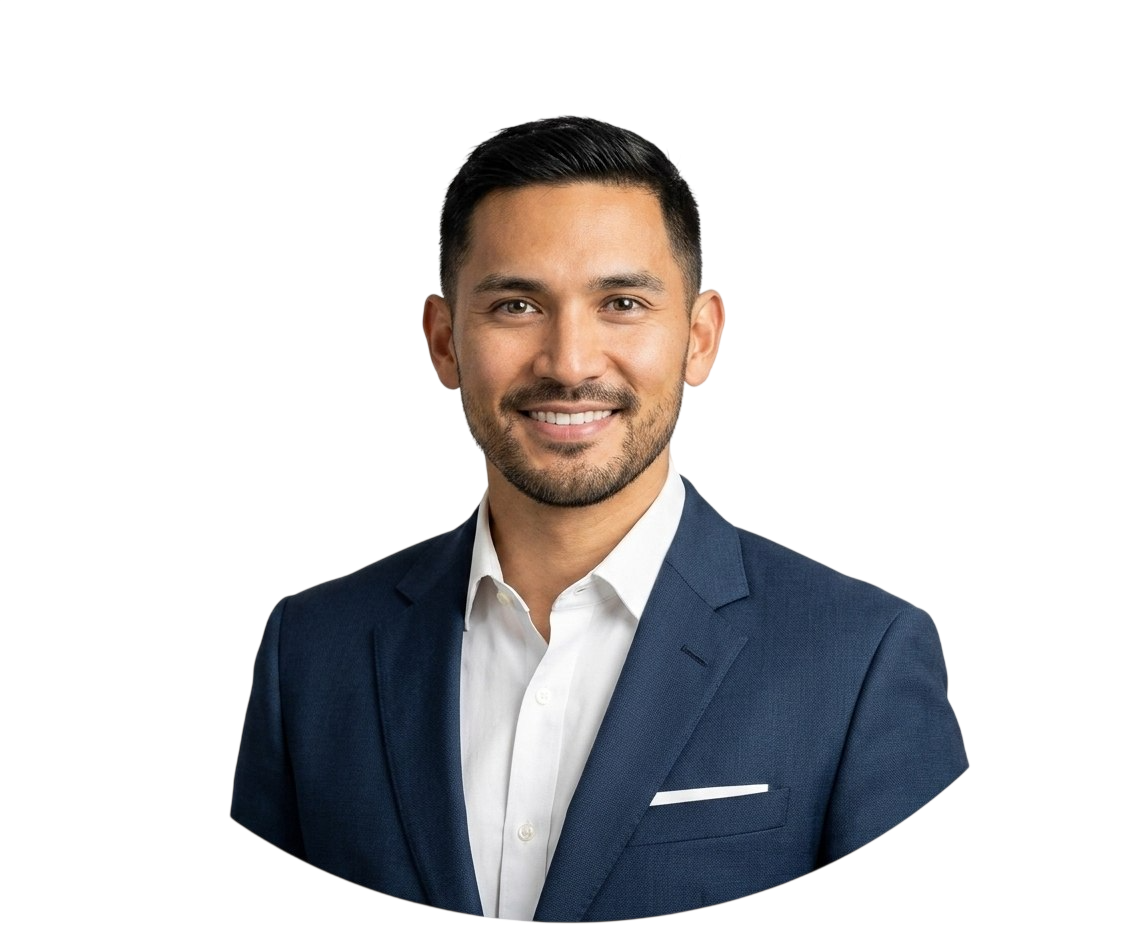
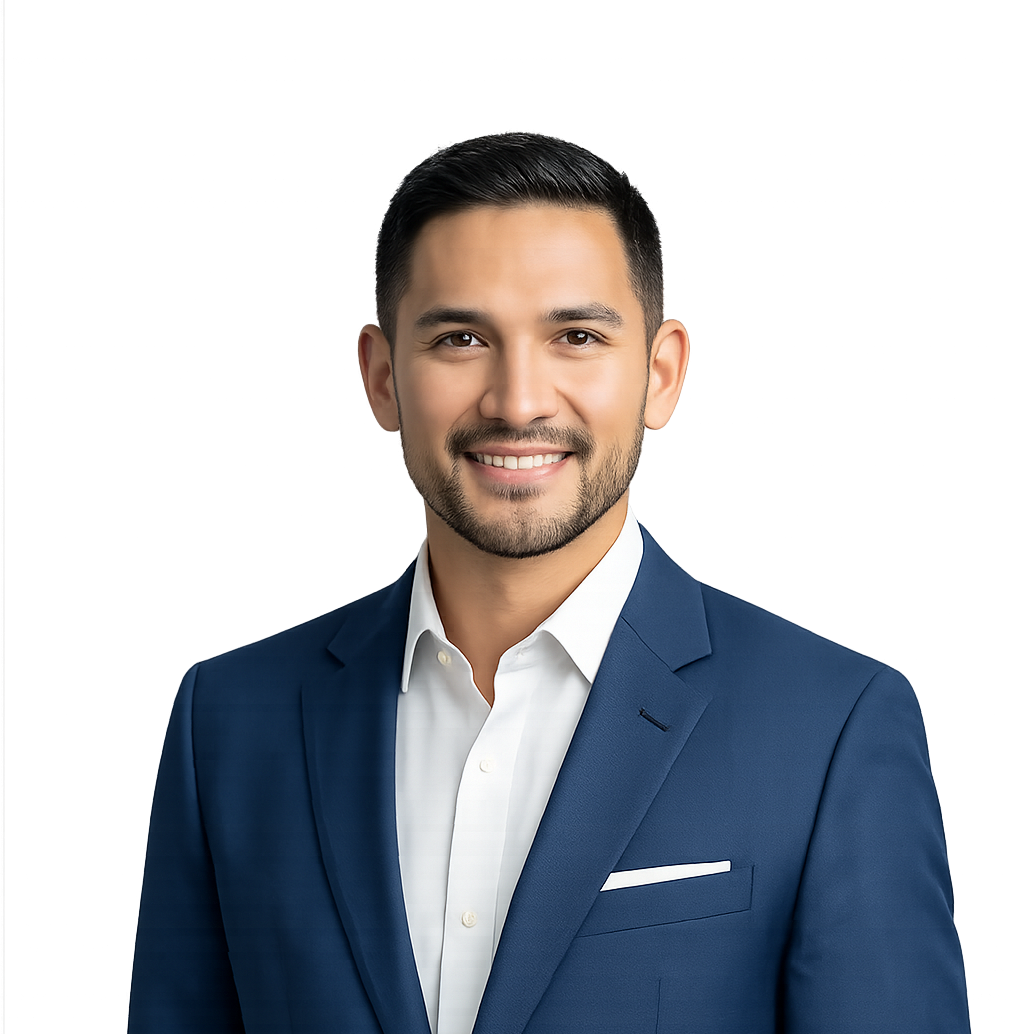
refactor(account): extract profile widgets and build complete ProfileCard UI

Changed region(s): [[0.1228, 0.1229, 0.9822, 1.0], [0.3069, 0.6758, 0.3376, 0.768]]

diff --git a/lib/features/account/presentation/views/widgets/profile_card.dart b/lib/features/account/presentation/views/widgets/profile_card.dart
@@ -1,0 +1,88 @@
+import 'package:flutter/material.dart';
+import 'package:flutter_svg/svg.dart';
+import 'package:flutter_task05_skills_academy_beg/core/theme/app_colors.dart';
+import 'package:flutter_task05_skills_academy_beg/core/utils/assets.dart';
+import 'package:flutter_task05_skills_academy_beg/features/account/presentation/views/widgets/ProfileBadge.dart';
+import 'package:flutter_task05_skills_academy_beg/features/account/presentation/views/widgets/profile_avatar.dart';
+
+class ProfileCard extends StatelessWidget {
+  const ProfileCard({super.key});
+
+  @override
+  Widget build(BuildContext context) {
+    return Container(
+      padding: const EdgeInsets.all(16),
+      decoration: BoxDecoration(
+        color: Colors.white,
+        borderRadius: BorderRadius.circular(16),
+        boxShadow: [
+          BoxShadow(
+            color: Colors.black.withOpacity(0.05),
+            blurRadius: 8,
+            offset: const Offset(0, 4),
+          ),
+        ],
+      ),
+      child: Column(
+        mainAxisSize: MainAxisSize.min,
+        children: [
+          // Profile Image
+          const ProfileAvatar(),
+          const SizedBox(height: 12),
+
+          //  User Name and Email
+          const Text(
+            'Julian Sterling',
+            style: TextStyle(fontSize: 20, fontWeight: FontWeight.w600),
+          ),
+          const SizedBox(height: 4),
+
+          const Text(
+            '[email redacted]',
+            style: TextStyle(color: Colors.grey),
+          ),
+
+          const SizedBox(height: 12),
+
+          // Badges
+          Row(
+            mainAxisAlignment: MainAxisAlignment.center,
+            children: [
+              ProfileBadge(
+                backgroundColor: AppColors.second,
+                textColor: AppColors.primary,
+                label: 'Pro Member',
+                icon: Container(
+                  width: 18,
+                  height: 18,
+                  decoration: BoxDecoration(
+                    color: AppColors.second,
+                    shape: BoxShape.circle,
+                    border: Border.all(color: AppColors.primary, width: 2),
+                  ),
+                  child: const Icon(
+                    Icons.star,
+                    color: AppColors.primary,
+                    size: 12,
+                  ),
+                ),
+              ),
+
+              const SizedBox(width: 8),
+              ProfileBadge(
+                backgroundColor: Colors.grey.shade200,
+                textColor: Colors.black87,
+                label: '12 Certificates',
+                icon: SvgPicture.asset(
+                  AssetsData.medalStarSvg,
+                  width: 18,
+                  height: 18,
+                ),
+              ),
+            ],
+          ),
+        ],
+      ),
+    );
+  }
+}

diff --git a/lib/features/account/presentation/views/widgets/ProfileBadge.dart b/lib/features/account/presentation/views/widgets/ProfileBadge.dart
@@ -1,0 +1,41 @@
+import 'package:flutter/material.dart';
+
+class ProfileBadge extends StatelessWidget {
+  final Widget icon;
+  final String label;
+  final Color backgroundColor;
+  final Color textColor;
+
+  const ProfileBadge({
+    super.key,
+    required this.icon,
+    required this.label,
+    required this.backgroundColor,
+    required this.textColor,
+  });
+
+  @override
+  Widget build(BuildContext context) {
+    return Container(
+      padding: const EdgeInsets.symmetric(horizontal: 16, vertical: 6),
+      decoration: BoxDecoration(
+        color: backgroundColor,
+        borderRadius: BorderRadius.circular(16),
+      ),
+      child: Row(
+        children: [
+          icon,
+          const SizedBox(width: 6),
+          Text(
+            label,
+            style: TextStyle(
+              color: textColor,
+              fontSize: 12,
+              fontWeight: FontWeight.w500,
+            ),
+          ),
+        ],
+      ),
+    );
+  }
+}

diff --git a/lib/features/account/presentation/views/widgets/profile_avatar.dart b/lib/features/account/presentation/views/widgets/profile_avatar.dart
@@ -1,0 +1,40 @@
+import 'package:flutter/material.dart';
+import 'package:flutter_task05_skills_academy_beg/core/theme/app_colors.dart';
+import 'package:flutter_task05_skills_academy_beg/core/utils/assets.dart';
+
+class ProfileAvatar extends StatelessWidget {
+  const ProfileAvatar({super.key});
+
+  @override
+  Widget build(BuildContext context) {
+    return Stack(
+      alignment: Alignment.bottomRight,
+      children: [
+        const CircleAvatar(
+          backgroundColor: AppColors.second,
+          radius: 40,
+          child: CircleAvatar(
+            backgroundColor: Colors.white,
+            radius: 37,
+            backgroundImage: AssetImage(AssetsData.accountPhoto),
+          ),
+        ),
+        InkWell(
+          onTap: () {},
+          child: Container(
+            decoration: const BoxDecoration(
+              color: AppColors.primary,
+              shape: BoxShape.circle,
+            ),
+            padding: const EdgeInsets.all(6),
+            child: const Icon(
+              Icons.edit_outlined,
+              color: Colors.white,
+              size: 16,
+            ),
+          ),
+        ),
+      ],
+    );
+  }
+}

diff --git a/lib/features/account/presentation/views/widgets/account_view_body.dart b/lib/features/account/presentation/views/widgets/account_view_body.dart
@@ -1,0 +1,14 @@
+import 'package:flutter/material.dart';
+import 'package:flutter_task05_skills_academy_beg/features/account/presentation/views/widgets/profile_card.dart';
+
+class AccountViewBody extends StatelessWidget {
+  const AccountViewBody({super.key});
+
+  @override
+  Widget build(BuildContext context) {
+    return const Padding(
+      padding: EdgeInsets.symmetric(horizontal: 16.0),
+      child: SingleChildScrollView(child: Column(children: [ProfileCard()])),
+    );
+  }
+}

diff --git a/lib/features/account/presentation/views/widgets/account_app_bar_actions.dart b/lib/features/account/presentation/views/widgets/account_app_bar_actions.dart
@@ -6,17 +6,12 @@ class AccountAppBarActions extends StatelessWidget {
 
   @override
   Widget build(BuildContext context) {
-    return Padding(
-      padding: const EdgeInsets.all(8.0),
+    return const Padding(
+      padding: EdgeInsets.all(8.0),
       child: CircleAvatar(
         backgroundColor: Colors.white,
         radius: 20,
-        child: Image.asset(
-          AssetsData.accountPhoto,
-          fit: BoxFit.cover,
-          width: 40,
-          height: 40,
-        ),
+        backgroundImage: AssetImage(AssetsData.accountPhoto),
       ),
     );
   }

diff --git a/lib/features/account/presentation/views/account_view.dart b/lib/features/account/presentation/views/account_view.dart
@@ -1,6 +1,7 @@
 import 'package:flutter/material.dart';
 import 'package:flutter_task05_skills_academy_beg/core/widgets/app_bar_title.dart';
 import 'package:flutter_task05_skills_academy_beg/features/account/presentation/views/widgets/account_app_bar_actions.dart';
+import 'package:flutter_task05_skills_academy_beg/features/account/presentation/views/widgets/account_view_body.dart';
 
 class AccountView extends StatelessWidget {
   const AccountView({super.key});
@@ -17,6 +18,11 @@ class AccountView extends StatelessWidget {
             children: [AppBarTitle(), AccountAppBarActions()],
           ),
         ),
+
+        SizedBox(height: 8),
+
+        // Body
+        Expanded(child: AccountViewBody()),
       ],
     );
   }

diff --git a/lib/core/utils/assets.dart b/lib/core/utils/assets.dart
@@ -16,4 +16,5 @@ class AssetsData {
   static const appBarActionsDetailsViewSvg =
       "assets/images/appBarActionsDetailsView.svg";
   static const accountPhoto = "assets/images/account.png";
+  static const medalStarSvg = "assets/images/medal_star_svg.svg";
 }